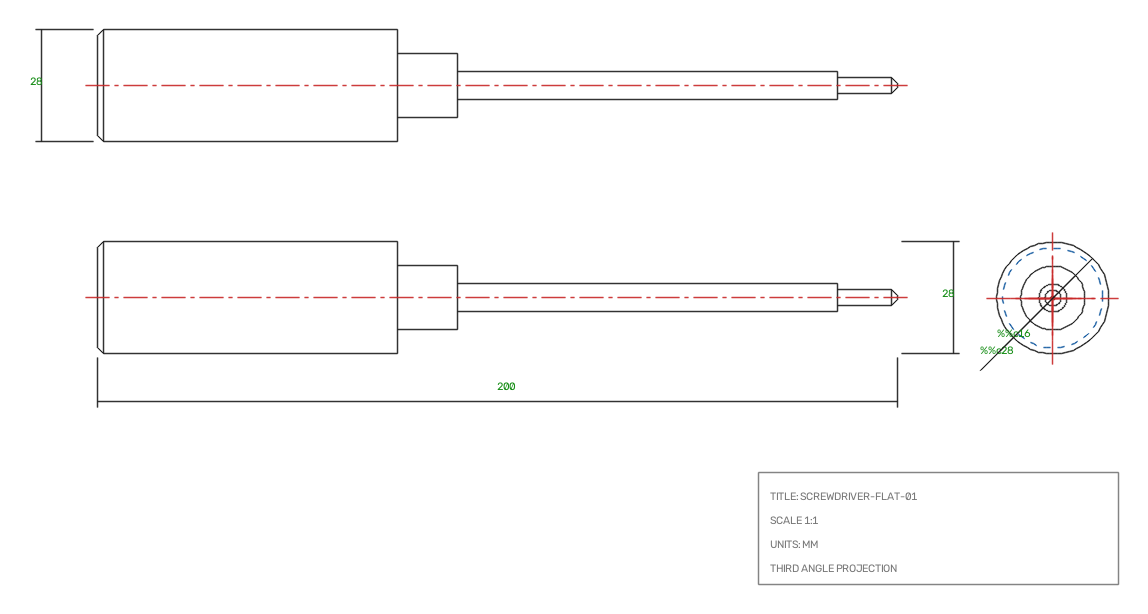
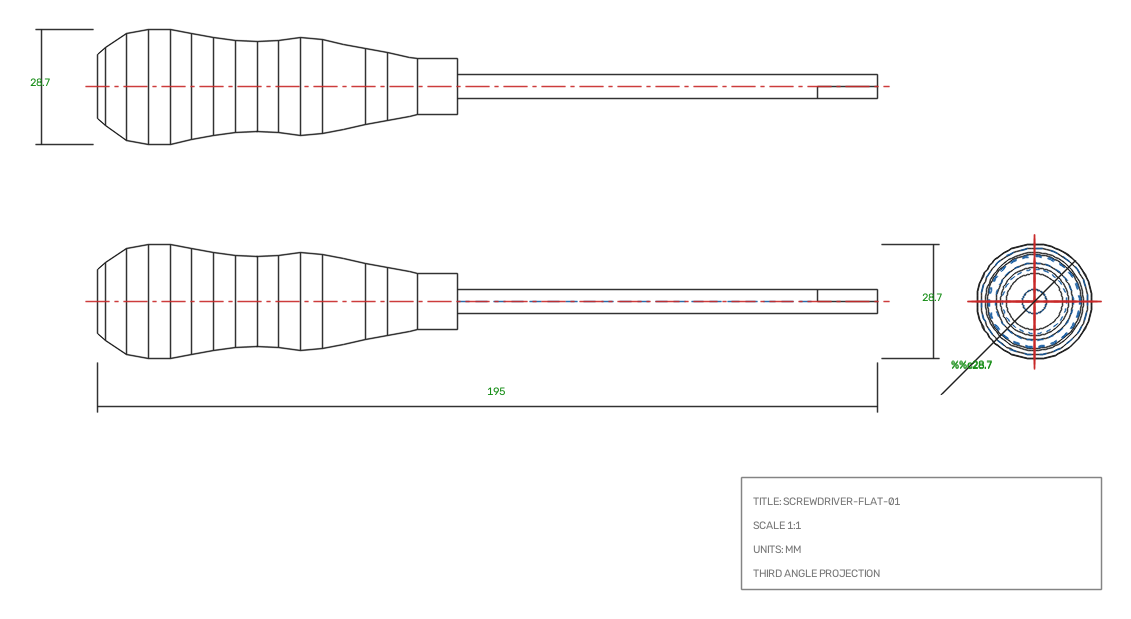
feat(cad): Support ergonomic contoured screwdriver reconstruction and align 3D ground grid

Changed region(s): [[0.0619, 0.3713, 0.9903, 0.6808], [0.0309, 0.0309, 0.8046, 0.2476], [0.6499, 0.7427, 0.9903, 0.9593]]

diff --git a/index.html b/index.html
@@ -507,6 +507,11 @@
       box.getCenter(center);
       controls.target.copy(center);
 
+      // Align ground grid immediately beneath the model's bottom base
+      gridHelper.position.y = box.min.y - 0.05;
+      gridHelper.position.x = center.x;
+      gridHelper.position.z = center.z;
+
       const size = new THREE.Vector3();
       box.getSize(size);
       const maxDim = Math.max(size.x, size.y, size.z);

diff --git a/spatialforge_v2/spatialforge_v2/reconstruction.py b/spatialforge_v2/spatialforge_v2/reconstruction.py
@@ -247,7 +247,7 @@ def reconstruct_prismatic(registered: Dict[str, Any]) -> Tuple[cq.Workplane, Dic
 # ---------------------------------------------------------------------------
 def reconstruct_turned(registered: Dict[str, Any]) -> Tuple[cq.Workplane, Dict[str, Any]]:
     """
-    Reconstruct a turned cylindrical stepped shaft using CadQuery revolve.
+    Reconstruct a turned cylindrical stepped shaft or ergonomic contoured hand tool using CadQuery revolve.
     """
     views = registered["views"]
     dims = registered["dimensions"]
@@ -255,61 +255,119 @@ def reconstruct_turned(registered: Dict[str, Any]) -> Tuple[cq.Workplane, Dict[s
 
     front_ents = views["front"]["entities"]
     front_lines = [e for e in front_ents if (e.get("kind") == "line" or "p" in e.get("g", e)) and e.get("role", "visible") == "visible"]
-    
-    # 2.1 Revolve Profile Extraction from Front View (half-profile above centerline)
     axis_y = dims["H"] / 2.0  # nominal center axis in registered view coords
-    
-    # Collect steps: horizontal segments above centerline
-    candidates = []
-    for l in front_lines:
-        g = l.get("g", l)
+
+    # Check whether the part is contoured (e.g. screwdriver handle) or purely stepped
+    slanted_lines = []
+    for e in front_lines:
+        g = e.get("g", e)
         x0, y0, x1, y1 = g["p"]
-        mid_y = (y0 + y1) / 2.0
-        if mid_y >= axis_y - 0.5:
-            x_min, x_max = min(x0, x1), max(x0, x1)
-            dx = x_max - x_min
-            dy = abs(y0 - y1)
-            if dx > 3.0 and dy <= 1.5:
-                r = max(0.5, round(abs(mid_y - axis_y), 2))
-                candidates.append((x_min, x_max, r))
+        dx, dy = abs(x1 - x0), abs(y1 - y0)
+        if dx > 1.2 and dy > 1.2:
+            slanted_lines.append(e)
 
-    # Sort steps along X
-    candidates.sort(key=lambda s: s[0])
-    
-    # Deduplicate overlapping segments and merge
-    merged_steps = []
-    for c in candidates:
-        if not merged_steps:
-            merged_steps.append(c)
-        else:
-            prev_min, prev_max, prev_r = merged_steps[-1]
-            if abs(c[0] - prev_min) < 2.0 or c[0] < prev_max - 2.0:
-                if abs(c[2] - prev_r) < 1.0:
-                    merged_steps[-1] = (min(prev_min, c[0]), max(prev_max, c[1]), max(prev_r, c[2]))
-            else:
-                merged_steps.append(c)
+    is_contoured = len(slanted_lines) >= 2
 
-    # Ensure contiguous coverage along X
-    pts = [(0.0, 0.0)]
-    ch = 1.5  # standard end chamfer
-    
-    if merged_steps:
-        r0 = merged_steps[0][2]
-        pts += [(0.0, max(0.0, r0 - ch)), (ch, r0)]
-        for i, (x_min, x_max, r) in enumerate(merged_steps):
-            if i > 0:
-                pts.append((x_min, r))
-            if i < len(merged_steps) - 1:
-                pts.append((x_max, r))
-            else:
-                pts += [(x_max - ch, r), (x_max, max(0.0, r - ch)), (x_max, 0.0)]
+    if is_contoured:
+        # Trace continuous upper contour boundary r(x) along X
+        x_set = set([0.0, L])
+        for l in front_lines:
+            g = l.get("g", l)
+            x0, y0, x1, y1 = g["p"]
+            if (y0 + y1) / 2.0 >= axis_y - 0.5:
+                x_set.add(round(min(x0, x1), 2))
+                x_set.add(round(max(x0, x1), 2))
+        for x in np.linspace(0, L, 50):
+            x_set.add(round(float(x), 2))
+
+        sorted_x = sorted([x for x in x_set if 0.0 <= x <= L])
+
+        def get_max_r_at_x(x):
+            max_r = 0.0
+            for l in front_lines:
+                g = l.get("g", l)
+                x0, y0, x1, y1 = g["p"]
+                xmin, xmax = min(x0, x1), max(x0, x1)
+                if xmin - 1e-3 <= x <= xmax + 1e-3:
+                    if abs(xmax - xmin) < 1e-4:
+                        y_val = max(y0, y1)
+                    else:
+                        t = (x - xmin) / (xmax - xmin)
+                        y_val = y0 + t * (y1 - y0) if x0 <= x1 else y1 + t * (y0 - y1)
+                    r = y_val - axis_y
+                    if r > max_r:
+                        max_r = r
+            return max_r
+
+        raw_pts = [(0.0, 0.0)]
+        for x in sorted_x:
+            r = get_max_r_at_x(x)
+            if r > 0.4:
+                raw_pts.append((x, round(r, 2)))
+        raw_pts.append((L, 0.0))
+
+        # Filter duplicate consecutive points
+        pts = [raw_pts[0]]
+        for p in raw_pts[1:]:
+            if abs(p[0] - pts[-1][0]) > 0.05 or abs(p[1] - pts[-1][1]) > 0.05:
+                pts.append(p)
+        if pts[-1] != (L, 0.0):
+            pts.append((L, 0.0))
+
+        prof = cq.Workplane("XY").polyline(pts).close()
+        body = prof.revolve(360, (0, 0, 0), (1, 0, 0))
+
+        # Slotted flathead screwdriver blade wedge cut at distal tip (last 15mm)
+        tip_r_end = 0.6  # nominal half-thickness of tip (1.2mm blade)
+        c_top = cq.Workplane("XY").polyline([(L - 15.0, 3.0), (L, tip_r_end), (L, 10.0), (L - 15.0, 10.0)]).close().extrude(20.0).translate((0, -10.0, 0))
+        c_bot = cq.Workplane("XY").polyline([(L - 15.0, -3.0), (L, -tip_r_end), (L, -10.0), (L - 15.0, -10.0)]).close().extrude(20.0).translate((0, -10.0, 0))
+        body = body.cut(c_top).cut(c_bot)
+
     else:
-        # Fallback to simple cylinder
-        pts = [(0.0, 0.0), (0.0, dims["H"] / 2.0), (L, dims["H"] / 2.0), (L, 0.0)]
+        # Collect steps: horizontal segments above centerline
+        candidates = []
+        for l in front_lines:
+            g = l.get("g", l)
+            x0, y0, x1, y1 = g["p"]
+            mid_y = (y0 + y1) / 2.0
+            if mid_y >= axis_y - 0.5:
+                x_min, x_max = min(x0, x1), max(x0, x1)
+                dx = x_max - x_min
+                dy = abs(y0 - y1)
+                if dx > 3.0 and dy <= 1.5:
+                    r = max(0.5, round(abs(mid_y - axis_y), 2))
+                    candidates.append((x_min, x_max, r))
 
-    # Revolve 360 degrees around X axis
-    prof = cq.Workplane("XY").polyline(pts).close()
-    body = prof.revolve(360, (0, 0, 0), (1, 0, 0))
+        candidates.sort(key=lambda s: s[0])
+        merged_steps = []
+        for c in candidates:
+            if not merged_steps:
+                merged_steps.append(c)
+            else:
+                prev_min, prev_max, prev_r = merged_steps[-1]
+                if abs(c[0] - prev_min) < 2.0 or c[0] < prev_max - 2.0:
+                    if abs(c[2] - prev_r) < 1.0:
+                        merged_steps[-1] = (min(prev_min, c[0]), max(prev_max, c[1]), max(prev_r, c[2]))
+                else:
+                    merged_steps.append(c)
+
+        pts = [(0.0, 0.0)]
+        ch = 1.5
+        if merged_steps:
+            r0 = merged_steps[0][2]
+            pts += [(0.0, max(0.0, r0 - ch)), (ch, r0)]
+            for i, (x_min, x_max, r) in enumerate(merged_steps):
+                if i > 0:
+                    pts.append((x_min, r))
+                if i < len(merged_steps) - 1:
+                    pts.append((x_max, r))
+                else:
+                    pts += [(x_max - ch, r), (x_max, max(0.0, r - ch)), (x_max, 0.0)]
+        else:
+            pts = [(0.0, 0.0), (0.0, dims["H"] / 2.0), (L, dims["H"] / 2.0), (L, 0.0)]
+
+        prof = cq.Workplane("XY").polyline(pts).close()
+        body = prof.revolve(360, (0, 0, 0), (1, 0, 0))
 
     features_detected = []
 
@@ -323,7 +381,7 @@ def reconstruct_turned(registered: Dict[str, Any]) -> Tuple[cq.Workplane, Dict[s
         body = body.cut(_cyl_z(d, dims["H"] + 10.0, cx, 0.0, -dims["H"] / 2.0 - 5.0))
         features_detected.append({"type": "cross_hole", "x": round(cx, 2), "d": d})
 
-    # Translate solid to registered orthographic view space (centered in Y and Z)
+    # Translate solid to registered model space (centered along Y and Z)
     body = body.translate((0.0, dims["D"] / 2.0, dims["H"] / 2.0))
 
     return body, {
@@ -333,8 +391,6 @@ def reconstruct_turned(registered: Dict[str, Any]) -> Tuple[cq.Workplane, Dict[s
         "volume": float(body.val().Volume()),
         "valid": bool(body.val().isValid())
     }
-
-
 # ---------------------------------------------------------------------------
 # 3. Main Reconstruction Dispatcher
 # ---------------------------------------------------------------------------
